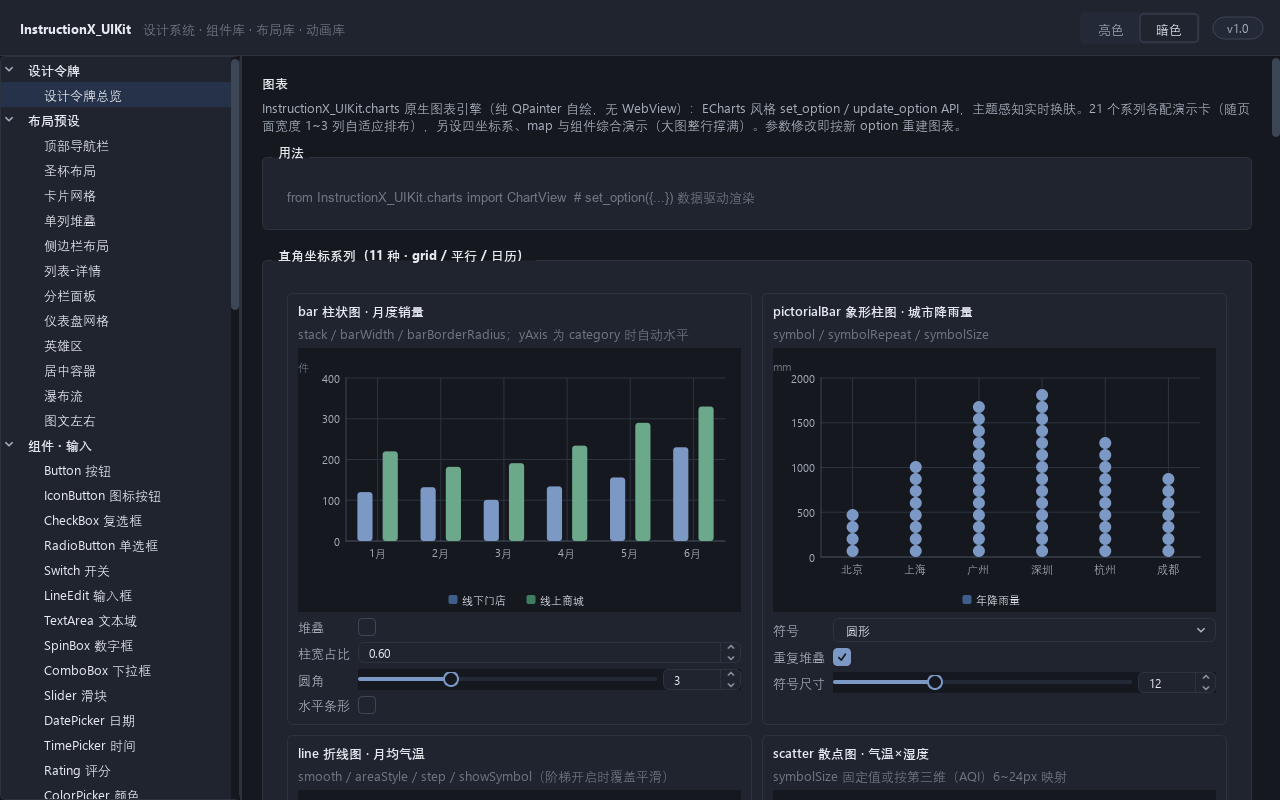
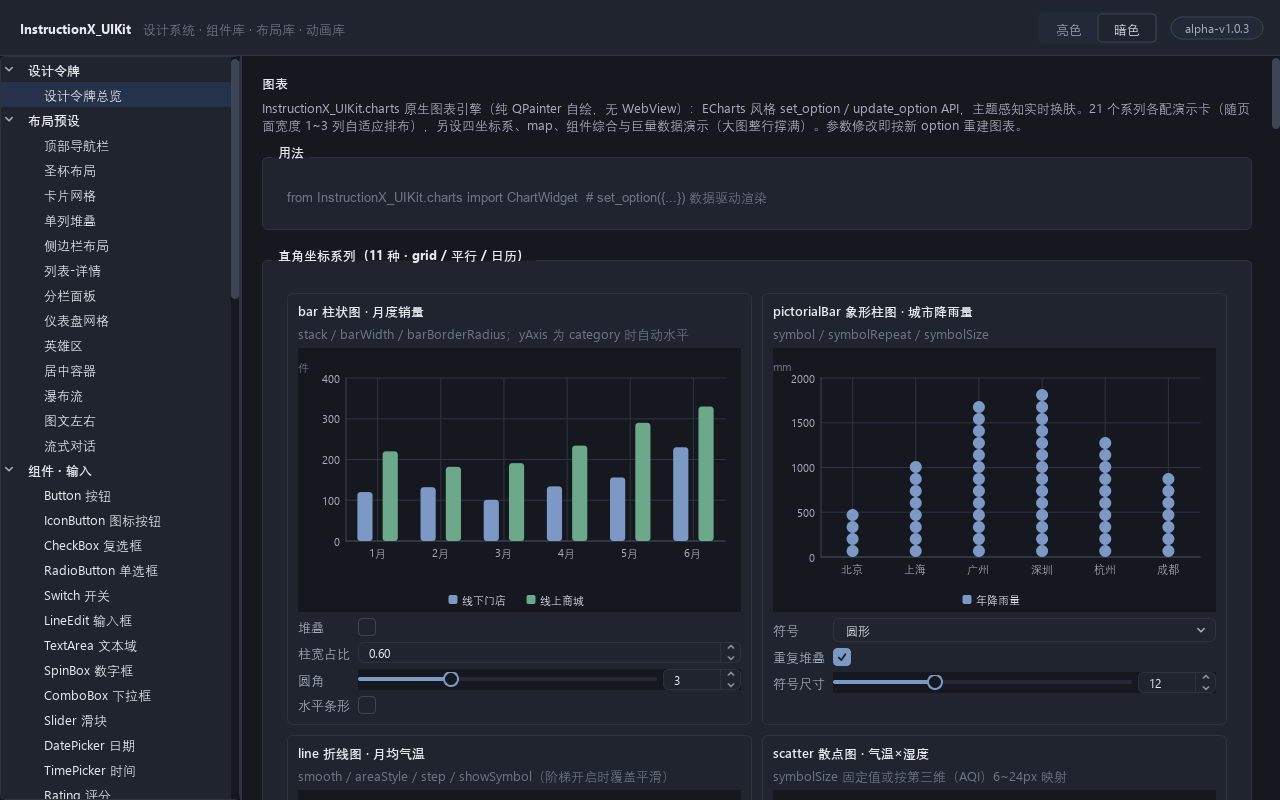
chore(release): 版本升级为 alpha-v1.0.3，README 全量校订并补代码编辑器预览
版本号（保持唯一来源口径）：
- `InstructionX_UIKit.__version__` = "alpha-v1.0.3"（Demo 顶栏标签取自此处）
- `pyproject.toml`：PEP 440 等价形式 `1.0.3a1`，注释同步
- `README.md` 版本徽章同步

README 校订（逐项核实后改写，非照抄旧文案）：
- 图表引擎描述由「20+ 系列类型」改为确数「21 种系列 + 9 种组件」，并补上本轮
  最重的两块能力：**OpenGL 渲染与大规模数据**（GPU 视口承载绘制、150 万点单帧
  5 ms 级、按绘图区像素宽自动降采样且逐像素列极值一致、零拷贝摄入、
  `gpuDirect` 顶点直传）与**实时数据接入**（`chart.stream()` 无锁环形缓冲 +
  帧合并 + 定时入图）。
- 运行 Demo 章节补「巨量数据综合演示」与「实时滚动流」说明，并写明判定口径：
  看**单帧绘制耗时**（90 fps 预算 11.1 ms），端到端帧率受垂直同步约束、不能
  反映图表能力。
- 导航列表补全为 11 大类 78 页（原缺「代码编辑器」一类）。
- 项目结构补全 `charts/` 的 10 个子模块（原仅一行），并修正导航描述。
- 文档章节列出 USAGE 的 11 章结构，突出新增的 §8「大数据与实时渲染」。

计数的核实依据（避免「改了数值反而更不准」）：
- 58 个组件 = 公开导出的 QWidget 子类数（实测 58）；
- 28 属性动画：`anim.property.__all__` 有 29 项，其中 `clear_ripple` 是清理
  辅助函数而非动画预设，故为 28；
- 21 种系列 = 演示卡片去重后 11+6+4（heatmap 在两处出现），与 SERIES_REGISTRY 一致。

截图：
- 新增 `docs/screenshots/code_editor_light.png`（1280x800，与其余预览图同规格），
  由 `temp/capture_readme_shots.py` 生成（该脚本的抓图清单加入 code_editor）。
- 其余 7 张预览图随同一次运行重新生成：与新图新旧逐张比对，差异仅在顶栏版本
  标签（1.0.2 → alpha-v1.0.3）与日期控件显示的当天日期（演示用
  `QDate.currentDate()`），内容一致。

diff --git a/InstructionX_UIKit/__init__.py b/InstructionX_UIKit/__init__.py
@@ -32,7 +32,7 @@ from .tokens import (
 )
 from .icons import get_icon, ICON_NAMES
 
-__version__ = "alpha-v1.0.2"
+__version__ = "alpha-v1.0.3"
 
 __all__ = [
     "__version__",

diff --git a/README.md b/README.md
@@ -5,7 +5,7 @@
 ![Python](https://img.shields.io/badge/Python-3.14%2B-3776AB?logo=python&logoColor=white)
 ![PySide6](https://img.shields.io/badge/PySide6-6.11.1%2B-41CD52?logo=qt&logoColor=white)
 ![Platform](https://img.shields.io/badge/Platform-Windows%20%7C%20macOS%20%7C%20Linux-lightgrey)
-![Version](https://img.shields.io/badge/Version-alpha--v1.0.2-orange)
+![Version](https://img.shields.io/badge/Version-alpha--v1.0.3-orange)
 
 ## 特性
 
@@ -13,10 +13,12 @@
 - **58 个组件**：输入 / 展示 / 反馈三大类，动态属性 + 全局 QSS 驱动，统一 sm / md / lg 尺寸体系与状态矩阵（hover / pressed / disabled / focus）。
 - **13 个响应式布局预设**：API 驱动的工厂函数（`create_card_grid(items=...)` 等），基于断点的响应式重排，空数据自动显示优雅占位。
 - **52 个动画预设**：28 个属性动画（快照覆盖层方案，规避 Qt6 + QSS + 高 DPI 下 QGraphicsEffect 失效问题）+ 24 个 QTimer 自绘动画组件。
-- **原生图表引擎**：纯 QPainter 实现的 ECharts 风格图表，不依赖 WebView / JavaScript；`set_option` 数据驱动，20+ 系列类型，主题感知实时换肤。
+- **原生图表引擎**：纯 QPainter 实现的 ECharts 风格图表，不依赖 WebView / JavaScript；`set_option` 数据驱动，**21 种系列**（直角坐标 / 层级占比 / 关系流向 / 极坐标 / 日历 / 地图 / 平行坐标）、9 种组件（标题 / 图例 / tooltip / markPoint / markLine / markArea / graphic / map / toolbox），主题感知实时换肤。
+- **OpenGL 渲染与大规模数据**：绘制由 GPU 视口承载（`QOpenGLWidget`，公共 API 零变化；GL 不可用时自动回退软件光栅）；**150 万点单帧 5 ms 级**，运行时按「绘图区像素宽」自动降采样并保证**逐像素列 y 极值与全量直绘严格一致**；数据的紧凑存储与零拷贝摄入使 `set_option` 不再深拷贝百万级数组；`series.gpuDirect` 可把折线顶点直接交给 VBO + GLSL（实测 150 万点 0.3 ms 级）。
+- **实时数据接入**：`chart.stream()` 提供无锁环形缓冲（单写单读）+ 帧合并（不丢点）+ 定时入图；生产者在任意线程写入、界面按刷新节奏取数，滚动窗口写满丢最旧。
 - **蓝图节点图**：类 UE5 Blueprint / ComfyUI 的节点图编辑器，支持右键建节点、引脚拖线、类型校验、序列化与执行状态模拟。
 - **代码编辑器**：纯 PySide6（无 WebView）对齐 VS Code 编辑区体验——语法高亮（9 种内置语言 + 注册表扩展）、小地图、查找替换、诊断 / 断点 / 折叠、补全与悬停 provider、Ctrl+D 多选批量编辑，另含并排 / 内联 / 自动断点的 Diff 对比编辑器。
-- **职责分离**：`InstructionX_UIKit/` 为纯 Kit 包（零假数据、零 Demo 逻辑，一切内容由调用方 API 传入）；`demo/` 为独立演示程序（78 演示页，每页顶部附「用法」代码示例）。
+- **职责分离**：`InstructionX_UIKit/` 为纯 Kit 包（零假数据、零 Demo 逻辑，一切内容由调用方 API 传入，无内容时显示优雅空占位）；`demo/` 为独立演示程序（**11 大类、78 个演示页**，每页顶部附「用法」代码示例）。
 
 ## 界面预览
 
@@ -31,6 +33,10 @@
 | 响应式仪表盘布局 | 蓝图节点图 |
 |---|---|
 | ![仪表盘布局](docs/screenshots/layout_dashboard_light.png) | ![蓝图](docs/screenshots/blueprint_light.png) |
+
+| 代码编辑器（仿 VS Code） | |
+|---|---|
+| ![代码编辑器](docs/screenshots/code_editor_light.png) | |
 
 | 自绘动画（24 预设） | |
 |---|---|
@@ -92,7 +98,9 @@ tm.set_mode("dark")   # 或 tm.toggle() 亮暗互切
 python main.py
 ```
 
-左侧导航含：设计令牌 / 布局预设（13）/ 组件·输入 / 组件·展示 / 组件·反馈 / 动画·属性（28）/ 动画·自绘（24）/ 基础控件 / 图表 / 蓝图。顶栏可随时切换亮 / 暗主题（实验性）；每个演示页顶部有「用法」代码标签，看 Demo 即可学会对应 API 的调用方式。
+左侧导航含：设计令牌 / 布局预设（13）/ 组件·输入 / 组件·展示 / 组件·反馈 / 动画·属性（28）/ 动画·自绘（24）/ 基础控件 / 图表（21 系列 + 巨量数据与实时滚动流演示）/ 蓝图（节点图）/ 代码编辑器（编辑器 + Diff），共 11 大类 78 页。顶栏可随时切换亮 / 暗主题（实验性）；每个演示页顶部有「用法」代码标签，看 Demo 即可学会对应 API 的调用方式。
+
+**图表页的巨量数据演示**：`1,500,000` 点起（可拉到 500 万）实时重建，读数直接给出「实际渲染点数 / QPainter 单帧 / GPU 直绘单帧 / 90 fps 预算判定」；「实时滚动流」开关模拟约 1000 点/秒的传感器，读数给出实测入图频率、采样吞吐与单帧绘制耗时。判定帧率是否达标请看**单帧绘制耗时**（90 fps 预算 11.1 ms）——端到端帧率受显示器垂直同步约束，不能反映图表能力。
 
 ## 项目结构
 
@@ -106,9 +114,21 @@ python main.py
 │   ├── layouts/                 # 13 个响应式布局预设（API 驱动）
 │   ├── anim/                    # 28 属性动画 + 24 自绘动画
 │   ├── charts/                  # 原生图表引擎（ECharts 风格）
+│   │   ├── core.py              #   ChartWidget（set_option / update_option）+ 分层渲染缓存
+│   │   ├── viewport.py          #   GL / 软件双视口（UIKIT_CHART_GL 控制，offscreen 自动回退）
+│   │   ├── data.py              #   紧凑存储与零拷贝摄入（大规模数据管线）
+│   │   ├── sampling.py          #   运行时降采样与「逐像素列极值一致」保真承诺
+│   │   ├── stream.py            #   实时接入：RingBuffer / FrameCoalescer / StreamSession
+│   │   ├── gl_series.py         #   GPU 原生直绘管线（VBO + GLSL）
+│   │   ├── axes.py              #   坐标系与轴模型
+│   │   ├── series_cartesian.py  #   直角坐标 / 单轴 / 平行坐标 / 日历系列
+│   │   ├── series_hierarchy.py  #   pie / radar / gauge / tree / treemap / sankey / graph
+│   │   ├── components.py        #   图表组件（markPoint / markLine / graphic / map …）
+│   │   ├── interact.py          #   dataZoom / brush / visualMap / timeline / toolbox
+│   │   └── pyramid.py           #   分层采样金字塔（可选组件，默认不接入）
 │   ├── blueprint/               # 蓝图节点图（模型 / 画布 / 连线 / 菜单 / 执行模拟）
 │   └── code_editor/             # 仿 VS Code 代码编辑器（高亮 / 小地图 / Diff）
-├── demo/                        # 独立 Demo 程序（78 演示页）
+├── demo/                        # 独立 Demo 程序（11 大类、78 演示页，惰性加载）
 ├── docs/                        # Design.md（设计规范）/ USAGE.md（使用手册）/ screenshots/
 ├── main.py                      # Demo 启动入口
 └── requirements.txt
@@ -133,7 +153,10 @@ python tests\test_core.py
 ## 文档
 
 - [docs/Design.md](docs/Design.md) — 设计规范（令牌数值、断点、动效、状态矩阵、暗色策略）
-- [docs/USAGE.md](docs/USAGE.md) — 使用手册（主题系统、全部组件 / 布局 / 动画 / 图表 / 蓝图示例）
+- [docs/USAGE.md](docs/USAGE.md) — 使用手册，共 11 章：
+  - §1–§7 安装 / 快速开始 / 主题系统 / 组件 / 布局 / 动画 / 图表用法
+  - **§8 大数据与实时渲染** — 渲染后端（GPU 与软件双视口）、自动降采样与保真承诺、实时数据接入（`chart.stream()`）、GPU 原生直绘（`gpuDirect`）、同屏多图性能特征
+  - §9 蓝图模式 · §10 代码编辑器 · §11 常见问题
 
 ## 仓库
 
